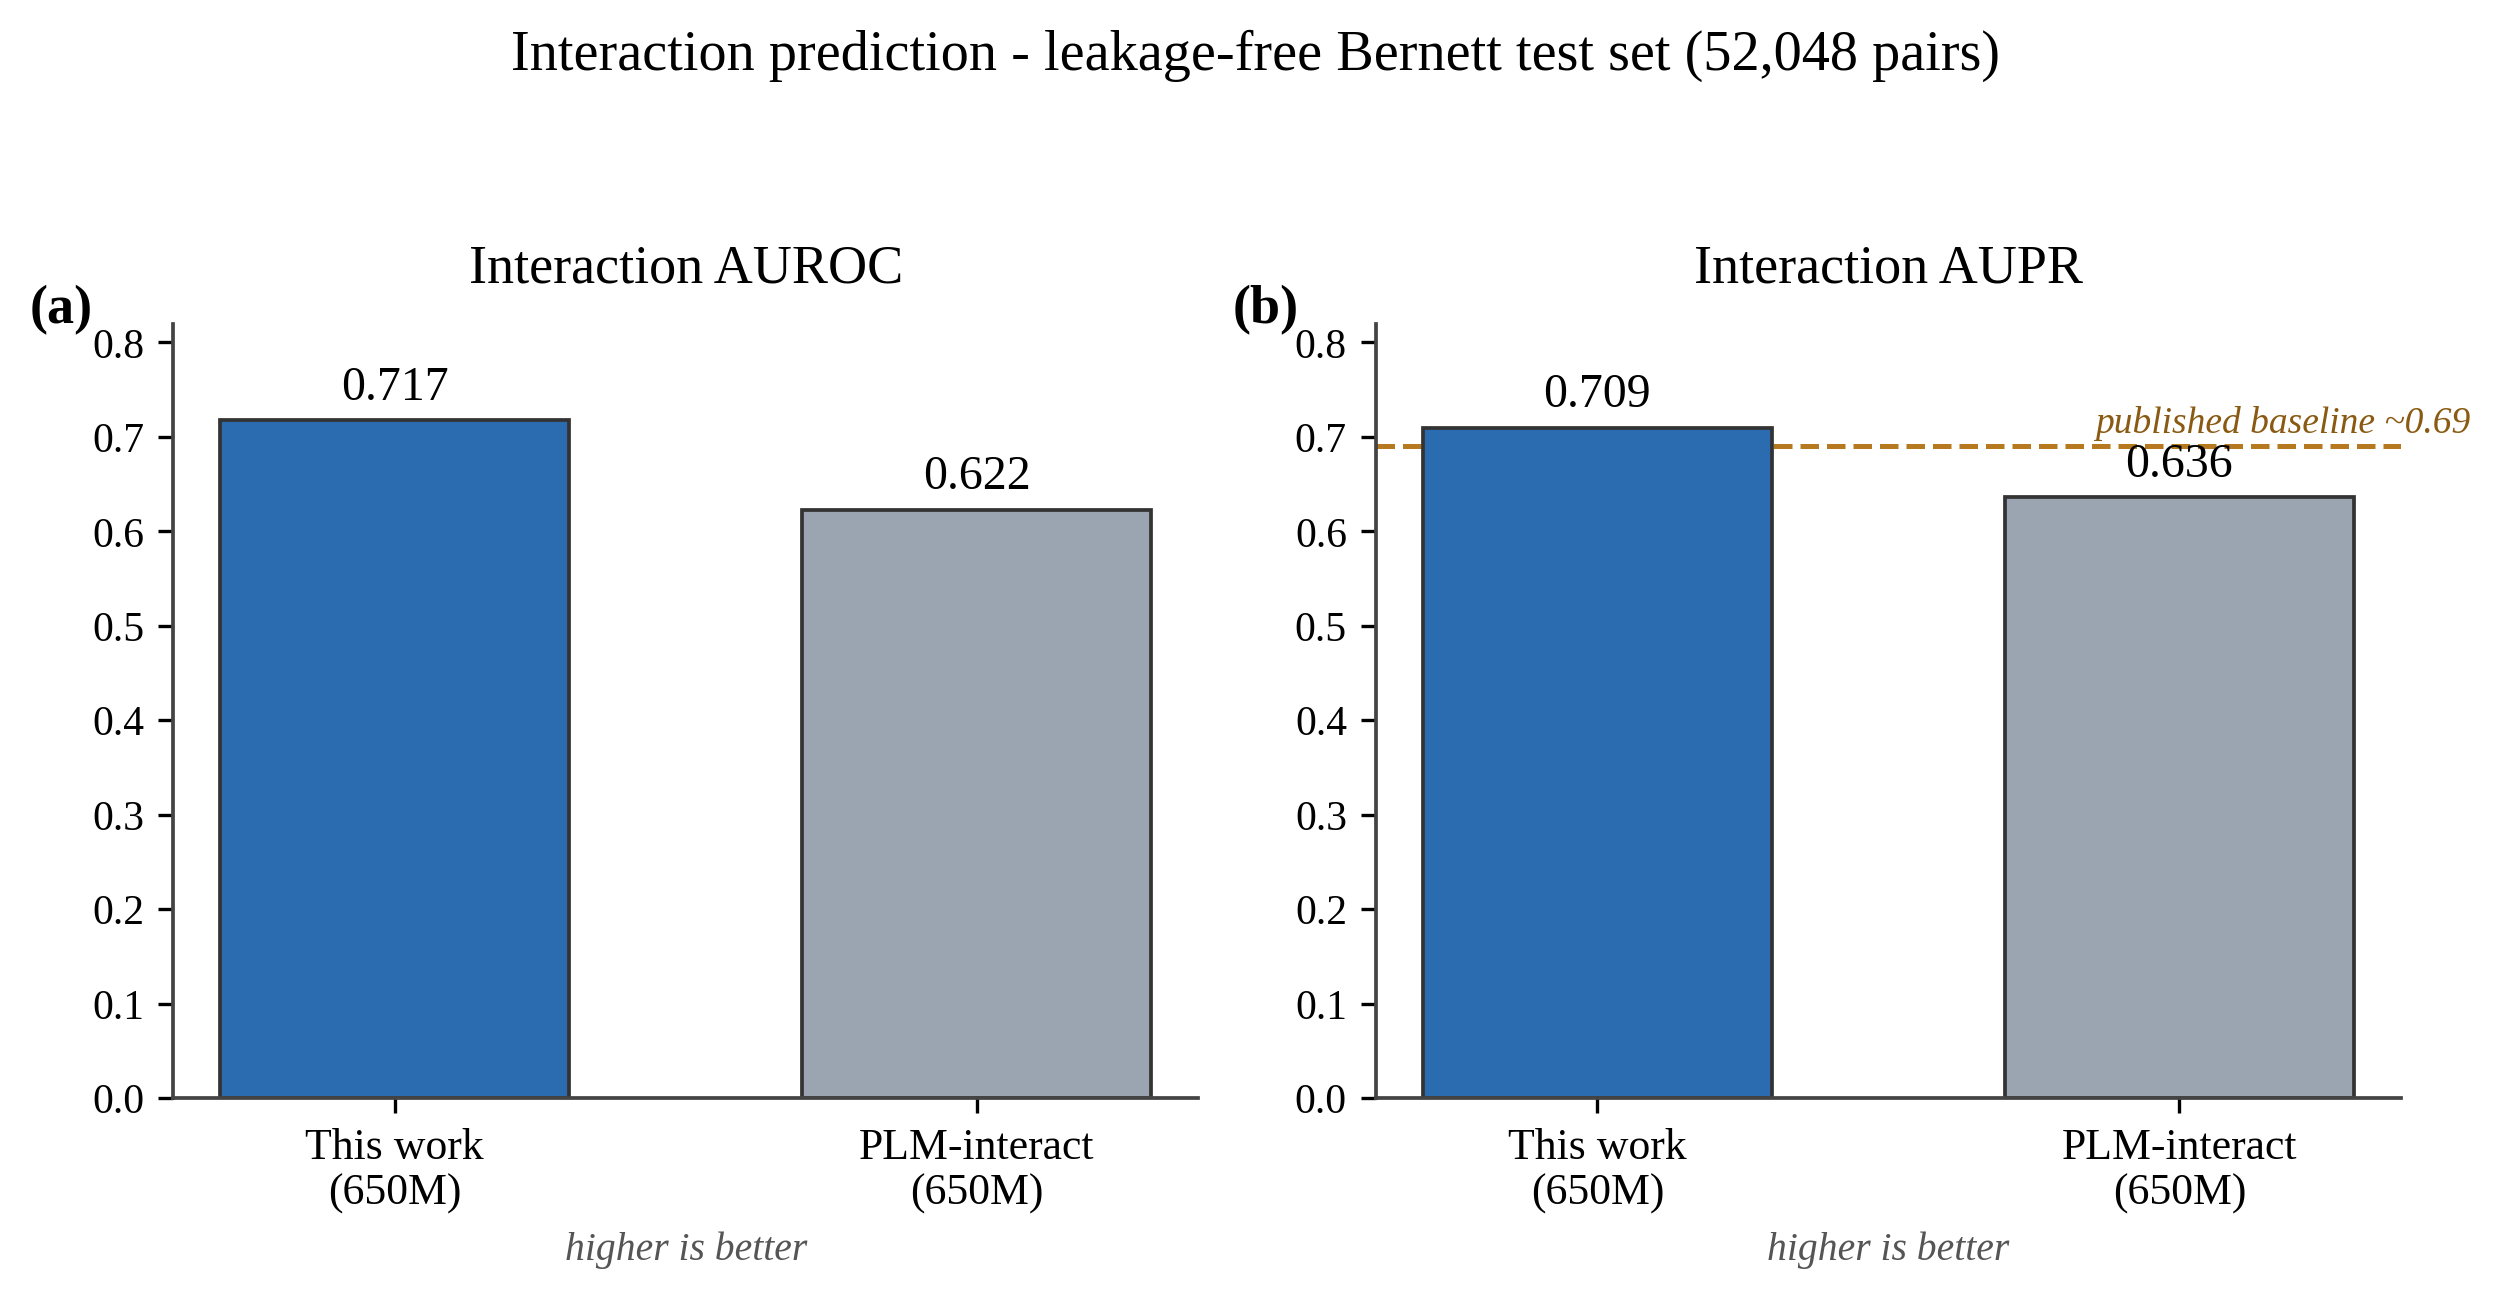
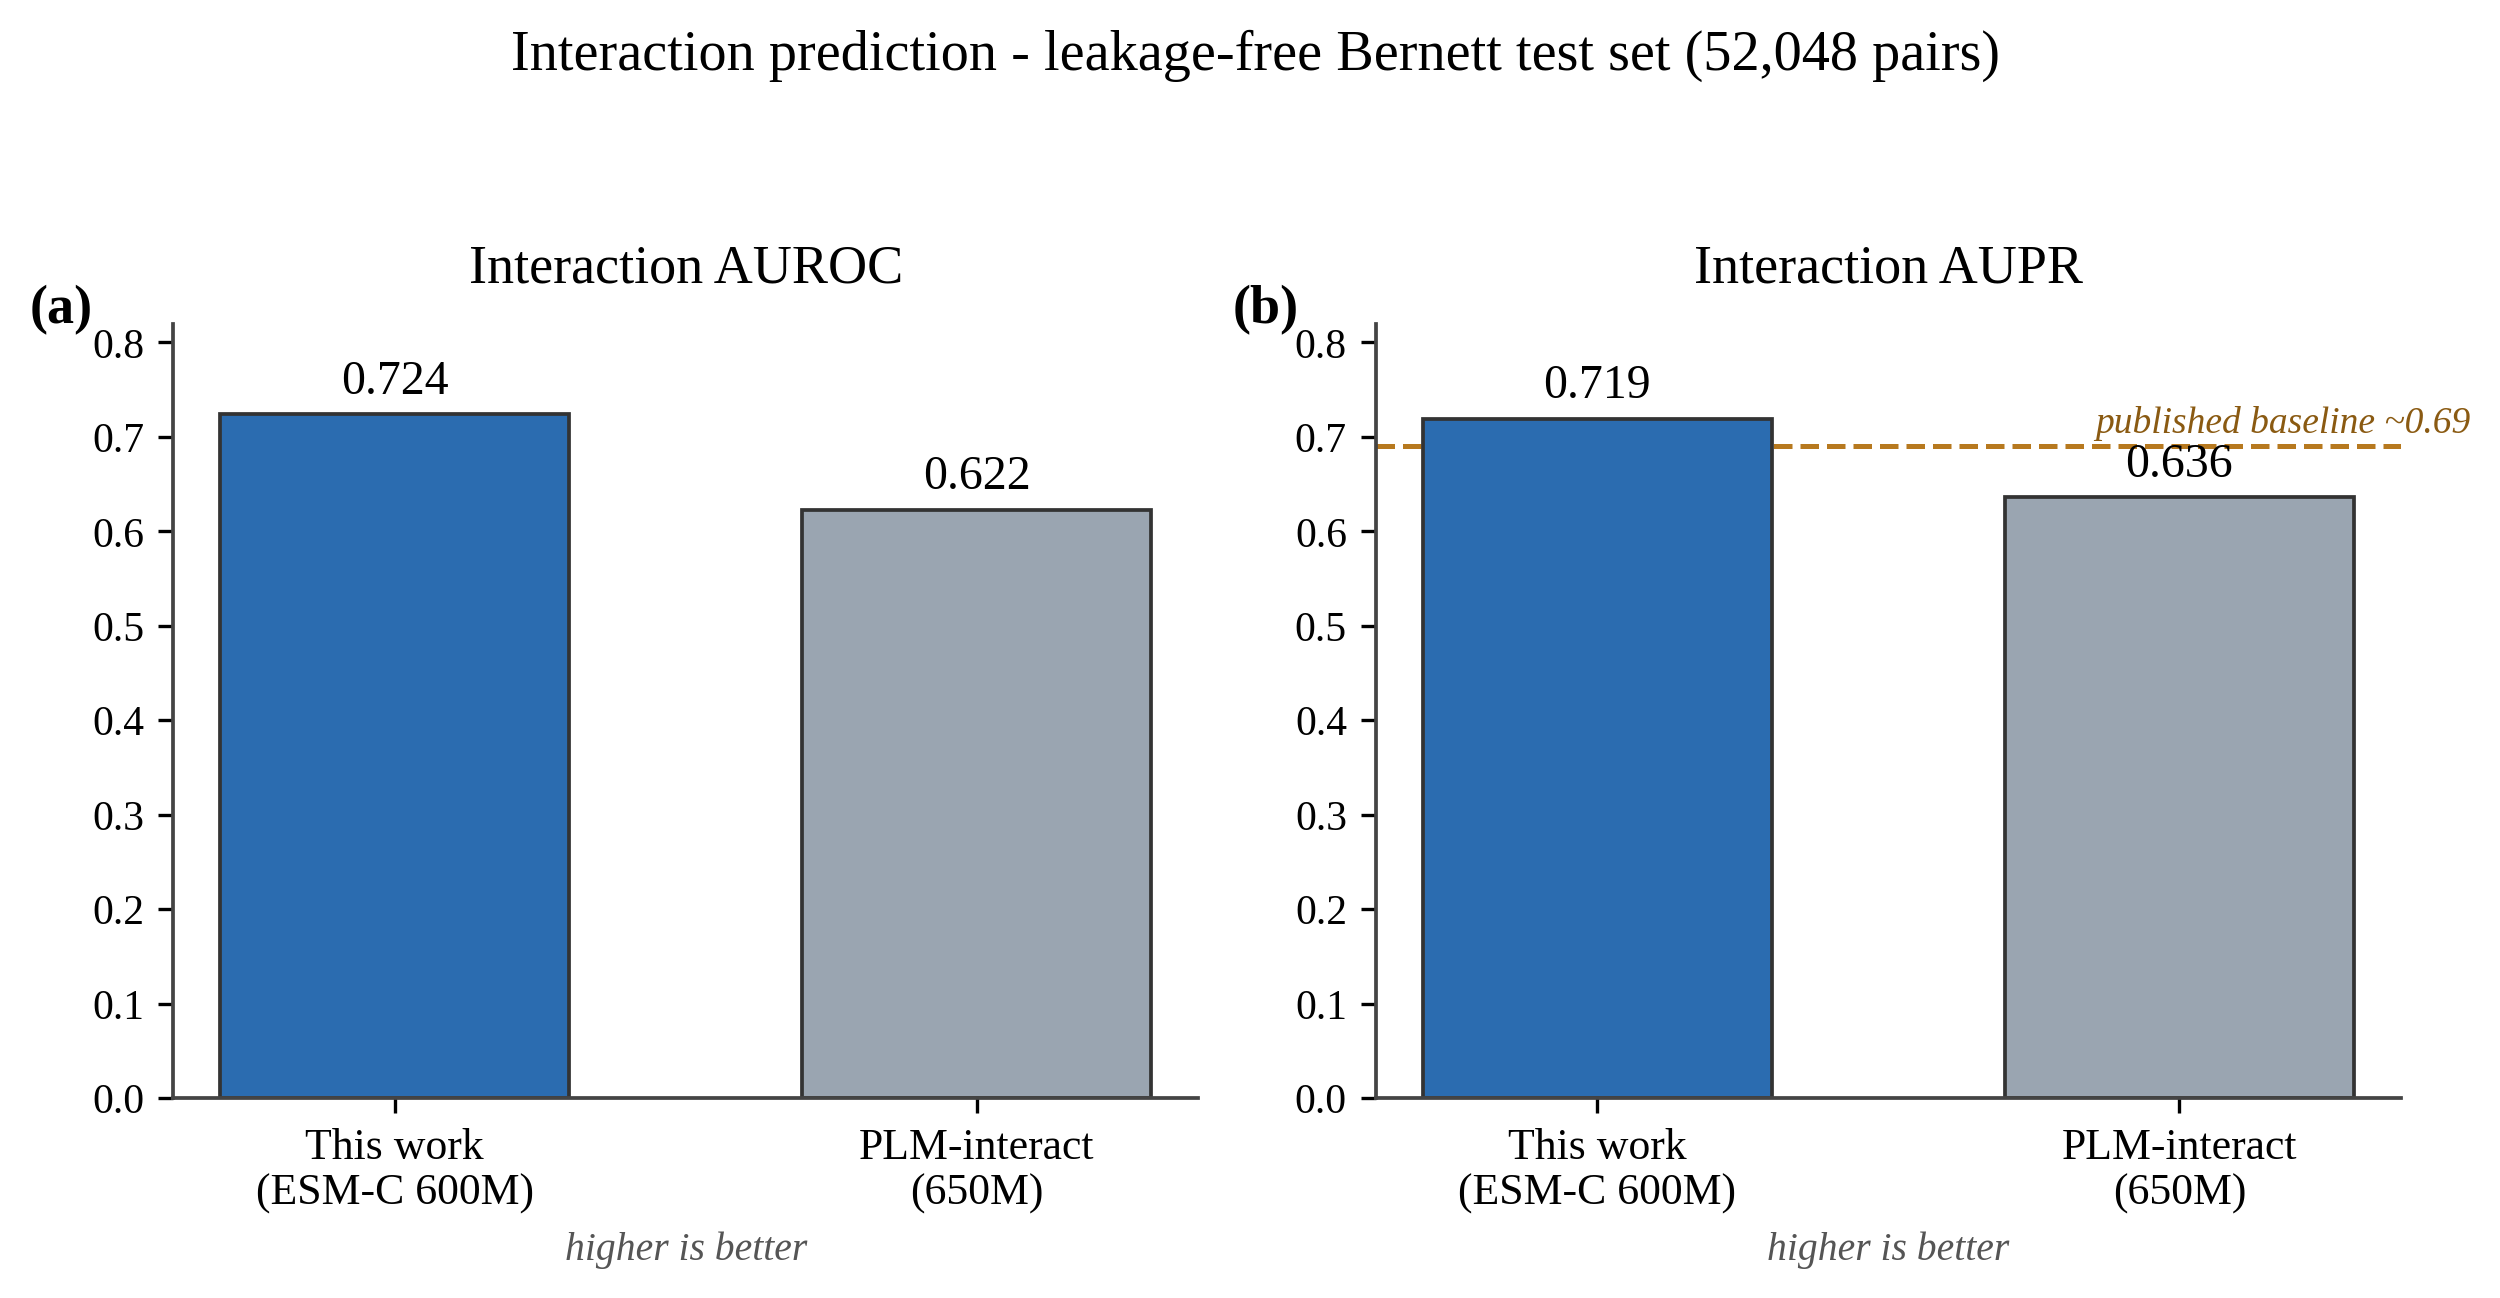
Update interaction benchmark to the selected ESM-C backbone and scope the Phase 5 design studies

diff --git a/reports/figures/phase5_interaction_benchmark.py b/reports/figures/phase5_interaction_benchmark.py
@@ -1,6 +1,6 @@
 #!/usr/bin/env python3
-"""Phase 5 - interaction benchmark figure: this work vs PLM-interact on the
-leakage-free Bernett test set (52,048 pairs). Serif type; no names embedded."""
+"""Phase 5 - interaction benchmark figure: this work (selected ESM-C backbone) vs PLM-interact on
+the leakage-free Bernett test set (52,048 pairs). Serif type; no names embedded."""
 import numpy as np, matplotlib
 matplotlib.use("Agg")
 import matplotlib.pyplot as plt
@@ -13,10 +13,12 @@ plt.rcParams.update({"font.family": "serif",
                      "font.serif": ["Liberation Serif", "Times New Roman", "DejaVu Serif"],
                      "font.size": 12, "axes.linewidth": 0.9, "axes.edgecolor": "#444444"})
 
-models = ["This work\n(650M)", "PLM-interact\n(650M)"]
+models = ["This work\n(ESM-C 600M)", "PLM-interact\n(650M)"]
 colors = ["#2b6cb0", "#9aa5b1"]
-panels = [("Interaction AUROC", [0.7174, 0.6224], None),
-          ("Interaction AUPR",  [0.7093, 0.6359], 0.69)]  # 0.69 = published baseline (AUPR)
+# This work = selected ESM-C interaction model on the Bernett test set (AUROC 0.724 / AUPR 0.719);
+# PLM-interact-650M as released (AUROC 0.622 / AUPR 0.636).
+panels = [("Interaction AUROC", [0.7238, 0.6224], None),
+          ("Interaction AUPR",  [0.7192, 0.6359], 0.69)]  # 0.69 = published baseline (AUPR)
 
 fig, axes = plt.subplots(1, 2, figsize=(8.4, 4.3))
 for ax, (title, vals, baseline), lab in zip(axes, panels, ["(a)", "(b)"]):

diff --git a/reports/PHASE5_SUMMARY.md b/reports/PHASE5_SUMMARY.md
@@ -2,7 +2,7 @@
 
 **Author:** Khalid Zaman, Research Assistant Professor (RAP) **Supervisor:** Prof. Zhaoxi Sun, SUAT
 **Project:** multimodal-ppi (Protein-Protein Interaction),   2026-10-09
-**Status:** COMPLETE: interaction benchmark, module ablation, stratified analysis, fusion study, and interpretability all done. Headline: the interaction model beats PLM-interact on the leakage-free benchmark. The multimodal views give limited aggregate benefit at 650M, but evolution helps consistently on deep-MSA complexes. A gated fusion does not beat the simple additive one. And the model's interface predictions are spatially coherent and interpretable.
+**Status:** COMPLETE: interaction benchmark, module ablation, stratified analysis, fusion study, and interpretability all done. Headline: the interaction model beats PLM-interact on the leakage-free benchmark. The multimodal views give limited aggregate benefit at 650M, but evolution helps consistently on deep-MSA complexes. A gated fusion does not beat the simple additive one. And the model's interface predictions are spatially coherent and interpretable. (Backbone: the interaction benchmark uses the selected ESM-C backbone; the multimodal design studies below are on the 650M model, and the backbone ablation found the two tied on those tasks.)
 
 ---
 
@@ -15,18 +15,26 @@ PLM-interact, (B) module ablation sequence then + structure then + evolution, (B
 
 ## Part A: Interaction benchmark (leakage-free Bernett test set)
 
-Both models scored on the **identical** Bernett test set (52,048 pairs), same metrics, same 650M
-backbone. Inference only.
+Both models scored on the **identical** Bernett test set (52,048 pairs), same metrics. This work
+uses the selected ESM-C backbone (see the backbone ablation, `phase5/BACKBONE_COMPARISON.md`);
+PLM-interact is the released 650M model. Inference only.
 
 | Model (same test set) | AUROC ↑ | AUPR ↑ |
 |---|---|---|
-| **This work: CrossAttnPPI-650M** | **0.717** | **0.709** |
+| **This work: CrossAttnPPI (ESM-C 600M)** | **0.724** | **0.719** |
 | PLM-interact-650M (as released) | 0.622 | 0.636 |
 | Published baselines (Bernett) | n/a | ~0.69 |
 
-Our model (trained on the Bernett train split) leads PLM-interact (used as released) by ~+0.095
-AUROC / +0.073 AUPR, and sits above the ~0.69 published baselines. Figure:
+Our model (trained on the Bernett train split) leads PLM-interact (used as released) by ~+0.102
+AUROC / +0.083 AUPR, and sits above the ~0.69 published baselines. Figure:
 `reports/figures/phase5_interaction_benchmark.png`. Job: `phase5/bench_interaction.sbatch`.
+
+**Backbone note.** The interaction model above uses the selected ESM-C backbone. The multimodal
+design studies that follow (Parts B, B2, B3, C) were run on the 650M multimodal model. The backbone
+ablation found ESM-2 and ESM-C statistically tied on the multimodal affinity / interface tasks
+(affinity Pearson 0.441 vs 0.439, interface AUPR 0.298 vs 0.281, see `reports/PHASE3_SUMMARY.md`),
+so these design-study conclusions are backbone-robust; they can be regenerated on ESM-C if required
+for the manuscript.
 
 ## Part B: Module ablation (650M, held-out test set)
 
